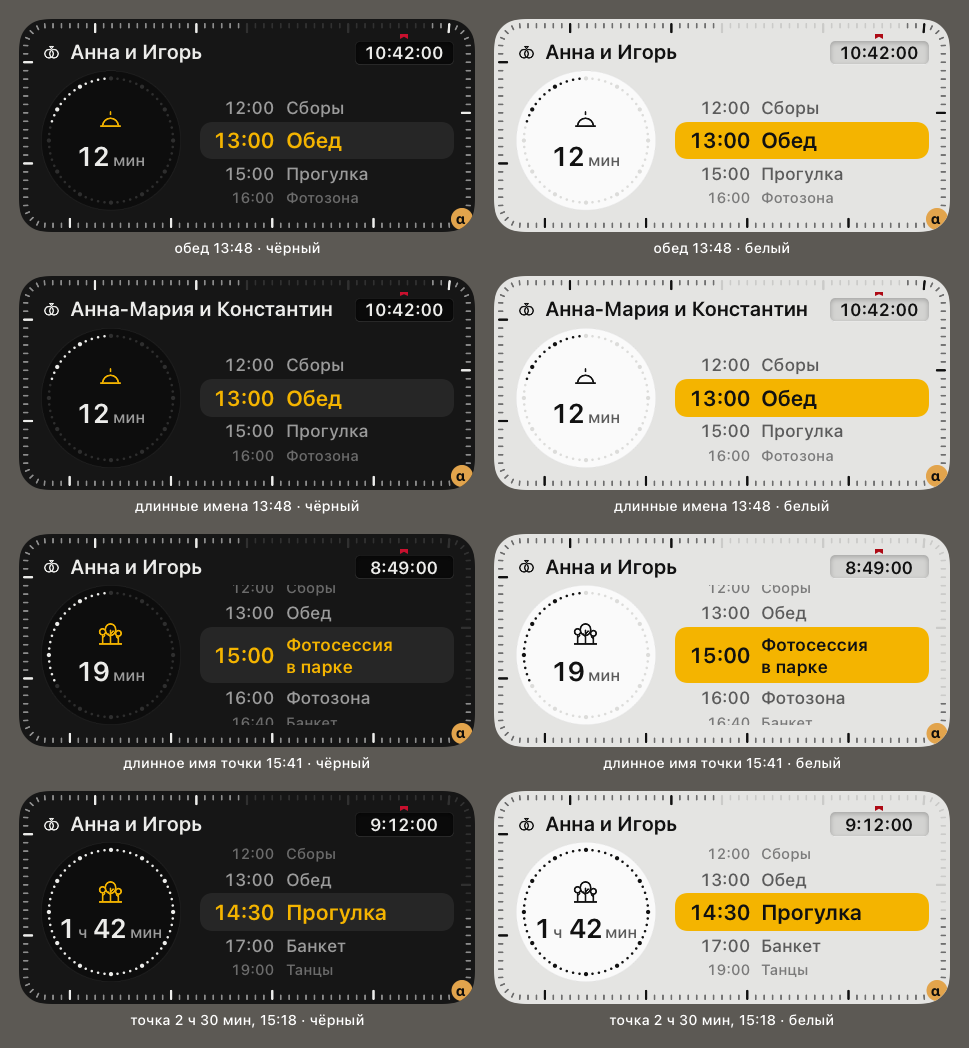
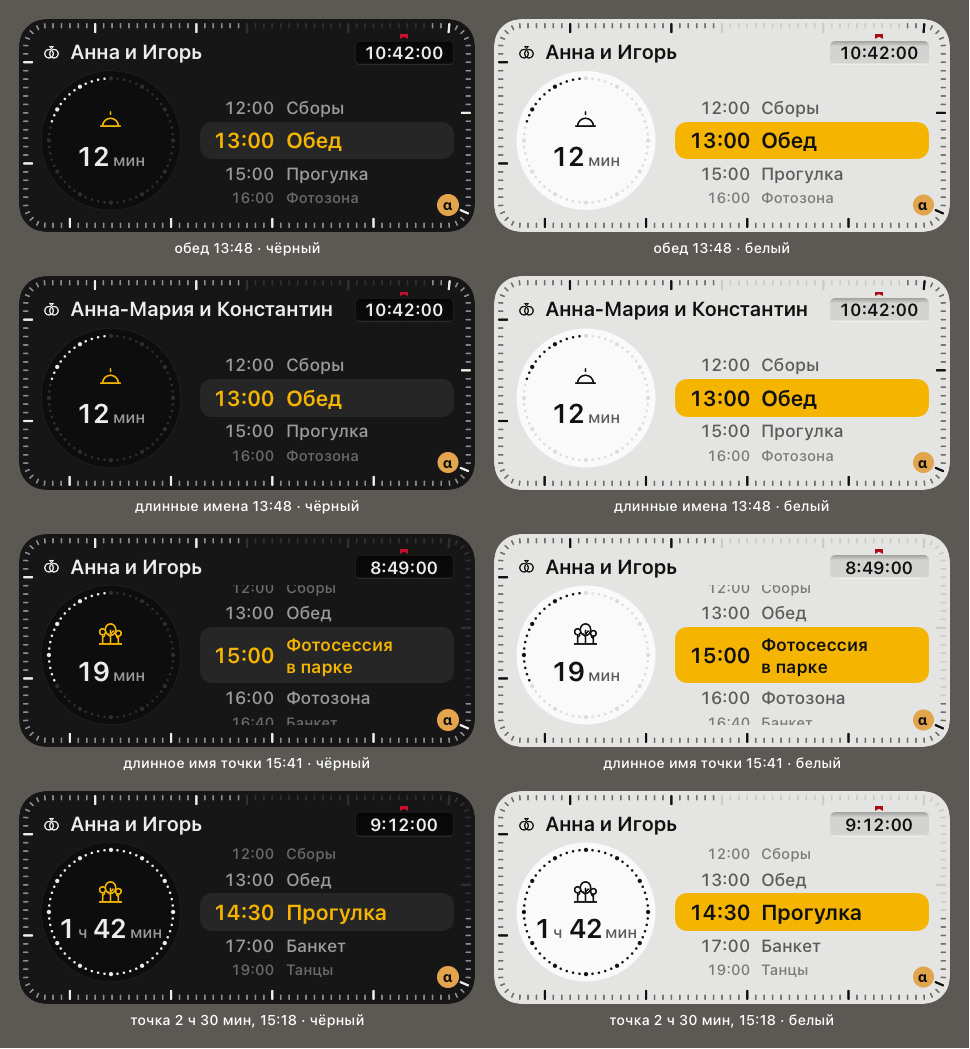
30б.2в-4: на телефоне окошко свадьбы рисуется и ничего после него не пропадает (снимки Алексея 26.10, слот B)
Живой Text(timerInterval:) с pauseTime:, .lineLimit и .fixedSize() на телефоне не рисовался и обрывал всё, что WidgetKit строил после него: круг, барабан,
«α», подложку. Теперь форма как у студийного таймера (WidgetStyle), что на телефоне идёт: без этих трёх; ширину задаёт рамка окошка. Окошко разложено
соседними слоями (плашка и флажок, «α», таймер последним), внутренняя тень `.shadow(.inner)` заменена обычными заливками и двумя градиентами.
Подложку плашки система на «Домой» осветляет (#161616 → #2e2e2e, измерено на телефоне), поэтому фон рисует сам вид; цвет контейнера — в каталоге
`WidgetBackgroundBraun` (вместо динамического UIColor). `case .small, .medium where …` относилось только к .medium — теперь `where` у обоих. «α» отступает
от края на 6: скругление 22 срезало значок.

Тесты: живая форма таймера закреплена по тексту вида (с .fixedSize, .lineLimit или pauseTime: красный — так выглядел 2d763c4); живой вид рисует «α» и фон сам;
подложка из каталога цветов сверена с палитрой. Правки внёс оркестратор, исполнитель их проверил. На телефоне не мерено после этого коммита.

diff --git a/LightPlanWidget/Views/BraunWidget.swift b/LightPlanWidget/Views/BraunWidget.swift
@@ -47,16 +47,6 @@ struct BraunPalette {
     var winRing: Color? { dark ? Color.white.opacity(0.12) : nil }
     /// Красный флажок Braun над окошком.
     var flag: Color { pick(0xAD0A15, 0xC8102E) }
-
-    /// Подложка плашки «Домой» (`containerBackground`): следует за темой системы сама.
-    static var container: Color {
-        #if canImport(UIKit)
-        Color(UIColor { $0.userInterfaceStyle == .dark ? UIColor(red: 0x16 / 255, green: 0x16 / 255, blue: 0x16 / 255, alpha: 1)
-                                                        : UIColor(red: 0xE4 / 255, green: 0xE4 / 255, blue: 0xE2 / 255, alpha: 1) })
-        #else
-        hex(0xE4E4E2)
-        #endif
-    }
 }
 
 // MARK: - Замер текста
@@ -211,11 +201,11 @@ struct BraunContent: View {
         let L = layout
         let w = Double(L.size.width), pad = BraunPlate.pad
         ZStack(alignment: .topLeading) {
+            // Фон рисует сам вид: подложку плашки (`containerBackground`) система на «Домой» осветляет — 26.10 на телефоне #161616 вышел
+            // #2e2e2e (а прежний #0f0e0c — #2e2d2a), и пройденные риски #303030 на ней пропадали. Цвета внутри вида доходят точно.
+            Rectangle().fill(pal.bg).frame(width: L.size.width, height: L.size.height)
             ticks
             header.frame(width: L.headerWidth, height: L.headerHeight, alignment: .leading).offset(x: pad, y: pad)
-            if L.medium {
-                window.offset(x: w - pad - L.windowWidth, y: pad)
-            }
             dial.offset(x: L.cx - L.diameter / 2, y: L.cy - L.diameter / 2)
             if plan.current != nil {
                 WidgetIcon(name: plan.current?.sign, size: 20, line: 1.5).foregroundStyle(pal.amber)
@@ -225,8 +215,18 @@ struct BraunContent: View {
             if L.medium {
                 drum.frame(width: L.drum.width, height: L.drum.height, alignment: .topLeading).clipped().offset(x: L.drum.minX, y: L.drum.minY)
             }
+            // Окошко свадьбы — слоями-соседями, живой таймер последним: на телефоне 26.10 после окошка не рисовалось ничего (диагностика).
+            if L.medium {
+                windowPlate(L.windowWidth).offset(x: w - pad - L.windowWidth, y: pad)
+                BraunFlag().fill(pal.flag).frame(width: 6, height: 3.5).offset(x: w - pad - L.windowWidth / 2 - 3, y: pad - 4.5)
+            }
             if alpha {
-                AlphaBadge().frame(width: L.size.width - 2, height: L.size.height - 2, alignment: .bottomTrailing)
+                // 6 от края: при отступе 1 скругление плашки (22) срезало значок на телефоне 26.10.
+                AlphaBadge().frame(width: L.size.width - 12, height: L.size.height - 12, alignment: .bottomTrailing)
+            }
+            if L.medium {
+                timerText(max(0, plan.shoot.endDate.timeIntervalSince(plan.frame.now)))
+                    .frame(width: L.windowWidth, height: 18).offset(x: w - pad - L.windowWidth, y: pad)
             }
         }
         .frame(width: L.size.width, height: L.size.height, alignment: .topLeading)
@@ -270,19 +270,16 @@ struct BraunContent: View {
 
     // MARK: Окошко Braun: сколько осталось свадьбы
 
-    private var window: some View {
+    private func windowPlate(_ width: Double) -> some View {
         let r = RoundedRectangle(cornerRadius: 4, style: .continuous)
-        let remaining = max(0, plan.shoot.endDate.timeIntervalSince(plan.frame.now))
         return ZStack {
-            r.fill(pal.win.shadow(.inner(color: pal.winTopShadow, radius: 2, x: 0, y: 1))
-                          .shadow(.inner(color: pal.winBottomRim, radius: 0, x: 0, y: -0.5)))
+            // Утоплено: тень у верхней кромки и светлая кромка снизу — обычными заливками (`.shadow(.inner)` виджет не рисует).
+            r.fill(pal.win)
+            r.fill(LinearGradient(colors: [pal.winTopShadow, .clear], startPoint: .top, endPoint: UnitPoint(x: 0.5, y: 0.22)))
+            r.fill(LinearGradient(colors: [.clear, pal.winBottomRim], startPoint: UnitPoint(x: 0.5, y: 0.9), endPoint: .bottom))
             if let ring = pal.winRing { r.strokeBorder(ring, lineWidth: 0.5) }
-            timerText(remaining)
         }
-        .frame(width: layout.windowWidth, height: 18)
-        .overlay(alignment: .top) {
-            BraunFlag().fill(pal.flag).frame(width: 6, height: 3.5).offset(y: -4.5)
-        }
+        .frame(width: width, height: 18)
     }
 
     /// От часа «10:42:00», меньше часа «42:00»; тикает сама (`Text(timerInterval:)`), без обновления виджета.
@@ -292,8 +289,10 @@ struct BraunContent: View {
             Text(BraunWindow.text(remaining: remaining)).font(font).foregroundStyle(pal.text).lineLimit(1).fixedSize()
         } else {
             let now = plan.frame.now
-            Text(timerInterval: now...max(plan.shoot.endDate, now.addingTimeInterval(1)), pauseTime: nil, countsDown: true, showsHours: BraunWindow.showsHours(remaining: remaining))
-                .font(font).foregroundStyle(pal.text).multilineTextAlignment(.center).lineLimit(1).fixedSize()
+            // Как таймер студии, что на телефоне рисуется (`WidgetStyle`): без `.fixedSize()` и `lineLimit` — с ними 26.10 на телефоне
+            // таймер не рисовался и обрывал всё, что виджет строил после него (значок «α», подложку). Ширину задаёт рамка окошка снаружи.
+            Text(timerInterval: now...max(plan.shoot.endDate, now.addingTimeInterval(1)), countsDown: true, showsHours: BraunWindow.showsHours(remaining: remaining))
+                .font(font).foregroundStyle(pal.text).multilineTextAlignment(.center)
         }
     }
 

diff --git a/Packages/LightPlanUI/Tests/LightPlanUITests/WidgetBraunViewTests.swift b/Packages/LightPlanUI/Tests/LightPlanUITests/WidgetBraunViewTests.swift
@@ -300,11 +300,65 @@ struct WidgetBraunViewTests {
             let neighbour = ink(146 + 10, 38 + 22, 190, 22, ground: bg)
             #expect(near(neighbour, p.muted, 22), "\(tag): текст соседа \(neighbour)")
         }
-        // Подложка плашки «Домой» — тот же цвет, что палитра.
-        for (style, v) in [(UIUserInterfaceStyle.light, 0xE4E4E2 as UInt32), (.dark, 0x161616)] {
-            var r: CGFloat = 0, g: CGFloat = 0, b: CGFloat = 0, a: CGFloat = 0
-            UIColor(BraunPalette.container).resolvedColor(with: UITraitCollection(userInterfaceStyle: style)).getRed(&r, green: &g, blue: &b, alpha: &a)
-            #expect(near((Double(r) * 255, Double(g) * 255, Double(b) * 255), hex(v), 1), "подложка в теме \(style.rawValue)")
+        // Подложка плашки «Домой» лежит в каталоге цветов расширения (`WidgetBackgroundBraun`) и совпадает с палитрой.
+        let json = try #require(try JSONSerialization.jsonObject(with: Data(contentsOf: Self.repo.appendingPathComponent("LightPlanWidget/Assets.xcassets/WidgetBackgroundBraun.colorset/Contents.json"))) as? [String: Any])
+        let colors = try #require(json["colors"] as? [[String: Any]])
+        for (dark, want) in [(false, 0xE4E4E2 as UInt32), (true, 0x161616)] {
+            let entry = try #require(colors.first { (($0["appearances"] as? [[String: String]])?.first?["value"] == "dark") == dark })
+            let c = try #require((entry["color"] as? [String: Any])?["components"] as? [String: String])
+            let got = (Double(c["red"]!)! * 255, Double(c["green"]!)! * 255, Double(c["blue"]!)! * 255)
+            #expect(near(got, hex(want), 1), "подложка в \(dark ? "тёмной" : "светлой") теме: \(got)")
+        }
+    }
+
+    // MARK: Живой таймер окошка (телефон 26.10)
+
+    /// Корень репозитория по пути этого файла.
+    static var repo: URL { URL(fileURLWithPath: #filePath).deletingLastPathComponent().deletingLastPathComponent().deletingLastPathComponent().deletingLastPathComponent().deletingLastPathComponent() }
+
+    /// Вызов живого таймера в тексте вида: от `Text(timerInterval:` до конца цепочки модификаторов (следующая пустая строка или комментарий).
+    static func liveTimerCall(in source: String) -> String? {
+        let lines = source.components(separatedBy: "\n")
+        guard let i = lines.firstIndex(where: { $0.contains("Text(timerInterval:") && !$0.trimmingCharacters(in: .whitespaces).hasPrefix("//") }) else { return nil }
+        var out = [lines[i]]
+        for l in lines[(i + 1)...] {
+            let t = l.trimmingCharacters(in: .whitespaces)
+            if t.isEmpty || t.hasPrefix("//") || t.hasPrefix("}") { break }
+            out.append(l)
+        }
+        return out.joined(separator: "\n")
+    }
+
+    /// На телефоне 26.10 живой `Text(timerInterval:)` с `.fixedSize()`, `.lineLimit(1)` и `pauseTime:` не рисовался и обрывал всё, что виджет строил после него
+    /// (окошко, круг, барабан, «α», подложку). Работает та же форма, что у студийного таймера (`WidgetStyle`): без этих трёх. В тестах таймер заморожен
+    /// и этого не видит, поэтому форма закреплена по тексту вида.
+    @Test func theLiveTimerHasTheFormThatDrawsOnThePhone() throws {
+        let source = try String(contentsOf: Self.repo.appendingPathComponent("LightPlanWidget/Views/BraunWidget.swift"), encoding: .utf8)
+        let call = try #require(Self.liveTimerCall(in: source), "в виде нет живого таймера")
+        #expect(call.contains("countsDown: true") && call.contains("showsHours:"), "таймер идёт вниз, часы — по правилу окошка: \(call)")
+        for banned in [".fixedSize", ".lineLimit", "pauseTime:"] {
+            #expect(!call.contains(banned), "живой таймер с «\(banned)» на телефоне не рисуется: \(call)")
+        }
+        // Проверка не пустая: прежняя форма (2d763c4) её не проходит.
+        let before = """
+            Text(timerInterval: now...end, pauseTime: nil, countsDown: true, showsHours: true)
+                .font(font).foregroundStyle(pal.text).multilineTextAlignment(.center).lineLimit(1).fixedSize()
+            """
+        let old = try #require(Self.liveTimerCall(in: before))
+        #expect(old.contains(".fixedSize") && old.contains("pauseTime:"))
+    }
+
+    /// Живой (не замороженный) вид рисует всё, что идёт после окошка: «α» в углу и подложку; таймер тоже оставляет чернила в окошке.
+    @Test func everythingAfterTheLiveTimerIsStillDrawn() throws {
+        let f = Self.scenario("lunch")
+        for dark in [true, false] {
+            let size = Plate.pro.size
+            let view = BraunWidgetView(frame: f, alpha: true, medium: true).frame(width: size.width, height: size.height)
+                .environment(\.colorScheme, dark ? .dark : .light)   // без подложки теста: фон рисует сам вид
+            let px = try render(view, scale: 4)
+            #expect(near(px.rgb(139, 85), dark ? hex(0x161616) : hex(0xE4E4E2), 1), "фон рисует сам вид: \(px.rgb(139, 85))")
+            let badge = px.rgb(size.width - 14.5, size.height - 20)   // правее центра значка (в центре буква «α»), 6 от края плашки
+            #expect(near(badge, hex(0xE2A44C), 14), "«α» не нарисована: \(badge)")
         }
     }
 

diff --git a/LightPlanWidget/LightPlanWidget.swift b/LightPlanWidget/LightPlanWidget.swift
@@ -80,7 +80,7 @@ struct DayWidgetView: View {
             .containerBackground(for: .widget) {
                 switch shape {
                 case .circular, .rectangular, .inline: Color.clear
-                case .small, .medium where entry.frame.kind == .live: BraunPalette.container
+                case .small where entry.frame.kind == .live, .medium where entry.frame.kind == .live: Color("WidgetBackgroundBraun")
                 default: Color("WidgetBackground")
                 }
             }
